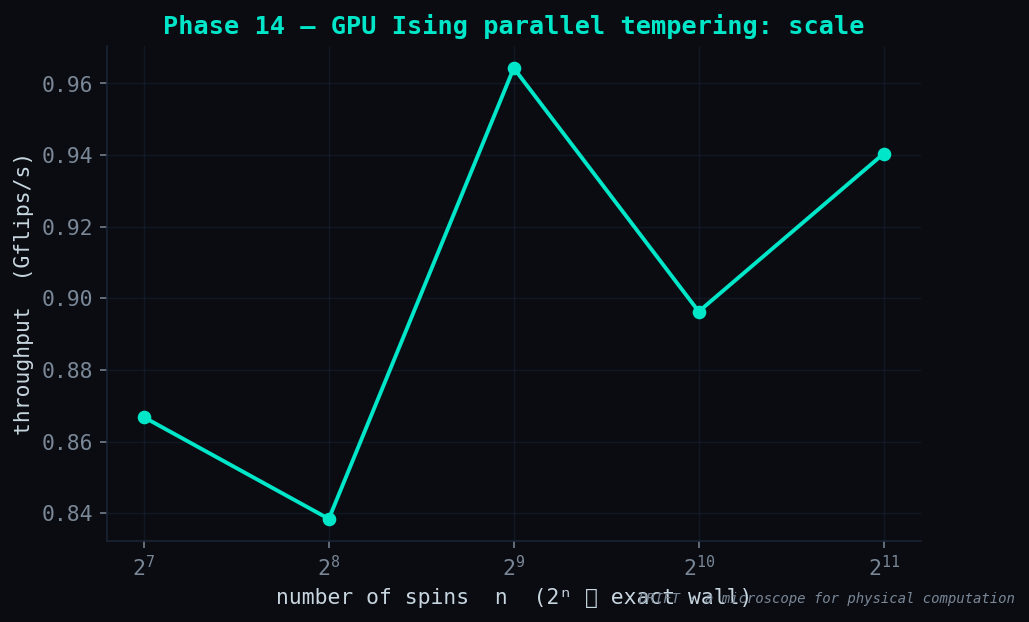
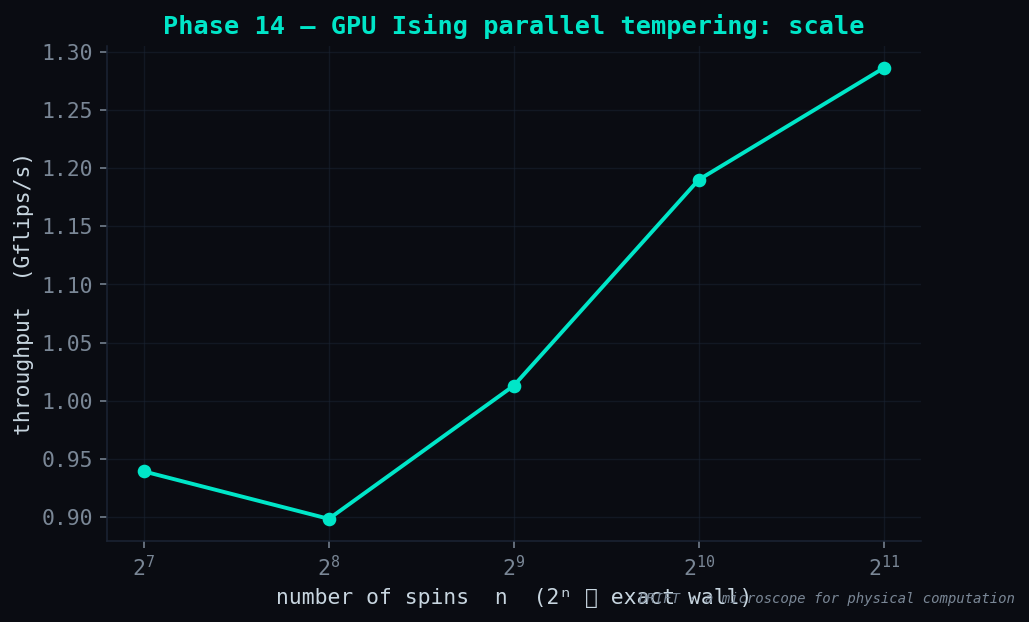
perf(phase14e): shared-memory spin staging — 0.94 -> ~1.29 Gflips/s
The memory-bound fix the previous measurement pointed at: each warp stages its
replica's spins into shared memory as int8 (+/-1) once per round, runs all sweeps
against shared, and writes back to global at the end. The hot scattered read
sr[colIdx[t]] (global, uncoalesced) becomes a shared-memory access. Dynamic shared
= WARPS_PER_BLOCK*n bytes, with a MaxDynamicSharedMemorySize opt-in past 48 KB so it
still reaches n=8192 (64 KB) on Blackwell.

Measured stable (5-run median, R=256): ~0.94 -> ~1.29 Gflips/s @ n=2048 (~1.37x),
peak ~1.36 @ n=8192, exact -22/-33 preserved. Vindicates the memory-bound diagnosis
from the incremental-energy step. Net arc: ~0.044 -> ~1.29 Gflips/s (~29x).

diff --git a/docs/results/PHASE14-results.md b/docs/results/PHASE14-results.md
@@ -126,6 +126,25 @@ but it named the *real* next lever: **coalescing / caching those neighbour reads
 locality, or stage the replica's spins in shared memory). Distrust the pretty number; measure, and
 let the measurement point at the truth.
 
+### Phase 14e — shared-memory staging (the lever that *did* move it)
+
+The fix the measurement pointed at: a replica's spins are read many times per sweep (once per
+neighbour edge), so at the start of each round each warp **stages its replica's spins into shared
+memory as int8 (±1)**, runs all the sweeps against shared memory, and writes back to global once at
+the end. The hot scattered read `sr[colIdx[t]]` (global, uncoalesced) becomes a shared-memory access;
+`WARPS_PER_BLOCK · n` bytes of dynamic shared per block, with a `MaxDynamicSharedMemorySize` opt-in
+past 48 KB (so it still reaches n = 8192 = 64 KB on Blackwell).
+
+**Measured, stable (5-run median), R = 256:**
+
+| n | 128 | 256 | 512 | 1024 | 2048 | 4096 | 8192 |
+|:---:|:---:|:---:|:---:|:---:|:---:|:---:|:---:|
+| Gflips/s | 0.94 | 0.90 | 1.01 | 1.19 | **1.29** | 1.30 | 1.36 |
+
+**~0.94 → ~1.29 Gflips/s at n=2048 (~1.37×), peak ~1.36 at n=8192** — exactly where the memory-bound
+diagnosis said the gain was, correctness intact (exact −22 / −33, same minima). The wrong lever
+(energy recompute) and the right one (shared staging) came from the *same* honest measurement.
+
 ### The whole arc, measured
 
 | build | flips/s @ n=2048 | wall @ n=2048 |
@@ -134,14 +153,16 @@ let the measurement point at the truth.
 | Phase 14b — sparse-J (CSR) | 0.06 G | — |
 | Phase 14b — + R=128 occupancy | 0.22 G | 1.95 s |
 | Phase 14c — checkerboard (block/replica) | 0.93 G | 0.45 s |
-| **Phase 14d — warp/replica, R=256** | **~0.94 G** (stable) | 0.89 s |
+| Phase 14d — warp/replica, R=256 | ~0.94 G (stable) | 0.89 s |
+| **Phase 14e — shared-memory staging** | **~1.29 G** | 0.65 s |
 
-**~0.044 → ~0.94 Gflips/s (~21×) over four measured steps — each one named the next bottleneck, and
+**~0.044 → ~1.29 Gflips/s (~29×) over five measured steps — each one named the next bottleneck, and
 none claimed a speed it hadn't shown** (including correcting a boost-clock outlier down to the stable
 rate). The microscope, pointed at itself: dense-O(n) → sparse-J → checkerboard parallel updates →
-warp-level replicas, and the exact −22 / −33 held at every step. The next real lever is **coalescing
-the scattered CSR neighbour reads** (the kernel is memory-bound there); then multi-GPU. The
-serial-flip wall that made the first GPU build no faster than a CPU is long gone.
+warp-level replicas → spins staged in shared memory, and the exact −22 / −33 held at every step,
+scaling to n = 8192. The serial-flip wall *and* the memory wall that made the first GPU build no
+faster than a CPU are both gone; the next levers are multi-GPU and routing `factor()` / large MaxCut
+through the engine.
 
 **Honest scope.** Parallel tempering finds **strong minima, not certified optima** — DRIFT is a
 microscope for computation at scale, not a SOTA solver; the certified answer stays the exact

diff --git a/cuda/README.md b/cuda/README.md
@@ -59,11 +59,11 @@ print(res.best_E, res.throughput, "flips/s")
 
 - J is stored **sparse (CSR)**; spins are updated by **checkerboard / graph-colouring** (a whole
   independent set flips in parallel, so a sweep is k colour-steps not n serial flips); and a replica
-  is driven by **one warp** (near-free `__syncwarp` barriers + shuffle energy reduction). Use **~256
-  replicas** (warp-per-replica's sweet spot — a replica is cheap, so many fill the GPU and make a
-  finer PT ladder). **~1.03 Gflips/s @ n=2048** (~1.13 @ R=512), scales to n=8192, exact ground
-  energies preserved. Further headroom (recompute energy less often, coalesced colour reads) and
-  multi-GPU are future work.
+  is driven by **one warp** (near-free `__syncwarp` barriers + shuffle energy reduction). Each warp also **stages its
+  replica's spins in shared memory** (int8) so the hot neighbour reads hit shared, not global. Use
+  **~256 replicas** (warp-per-replica's sweet spot — a replica is cheap, so many fill the GPU and make
+  a finer PT ladder). **~1.29 Gflips/s @ n=2048**, scales to n=8192 (~1.36), exact ground energies
+  preserved. Multi-GPU and routing `factor()` / large MaxCut through the engine are future work.
 - Parallel tempering finds **strong minima**, not certified optima — DRIFT is a microscope for
   computation at scale, not a solver competing for SOTA. The certified answer is the exact engine's,
   on the small n where the two are cross-checked.

diff --git a/docs/ROADMAP.md b/docs/ROADMAP.md
@@ -184,9 +184,13 @@ proving anything — each one makes a piece of the process *observable*.
 - **Also done (neutral):** energy tracked **incrementally** (Σ dE telescopes to the exact change),
   removing the per-round O(nnz) recompute — verified exact (no drift), but throughput unchanged: the
   kernel is **memory-bound on the scattered CSR neighbour reads**, not the energy.
-- **Next (the real lever):** **coalesce / cache the neighbour reads** (`neigh_sum` gathers colIdx /
-  weight / spins uncoalesced) — stage the replica's spins in shared memory or reorder for locality.
-  Then multi-GPU; route `factor()` / large MaxCut through the engine.
+- **Phase 14e done — shared-memory staging:** each warp stages its replica's spins into shared memory
+  (int8 ±1) once per round, so the hot scattered read `sr[colIdx[t]]` becomes a shared access
+  (dynamic shared, `MaxDynamicSharedMemorySize` opt-in past 48 KB → still reaches n=8192). **~0.94 →
+  ~1.29 Gflips/s @ n=2048 (~1.37×), peak ~1.36 @ n=8192**, exact −22/−33 preserved. Vindicated the
+  memory-bound diagnosis. **Net arc: ~0.044 → ~1.29 Gflips/s (~29×).**
+- **Next:** multi-GPU; route `factor()` / large MaxCut through the engine; (further micro: bit-pack
+  spins / reduce shared-bank conflicts).
 - **Honest scope:** strong minima, not certified optima (the exact engine stays the oracle on small n).
 
 ---
